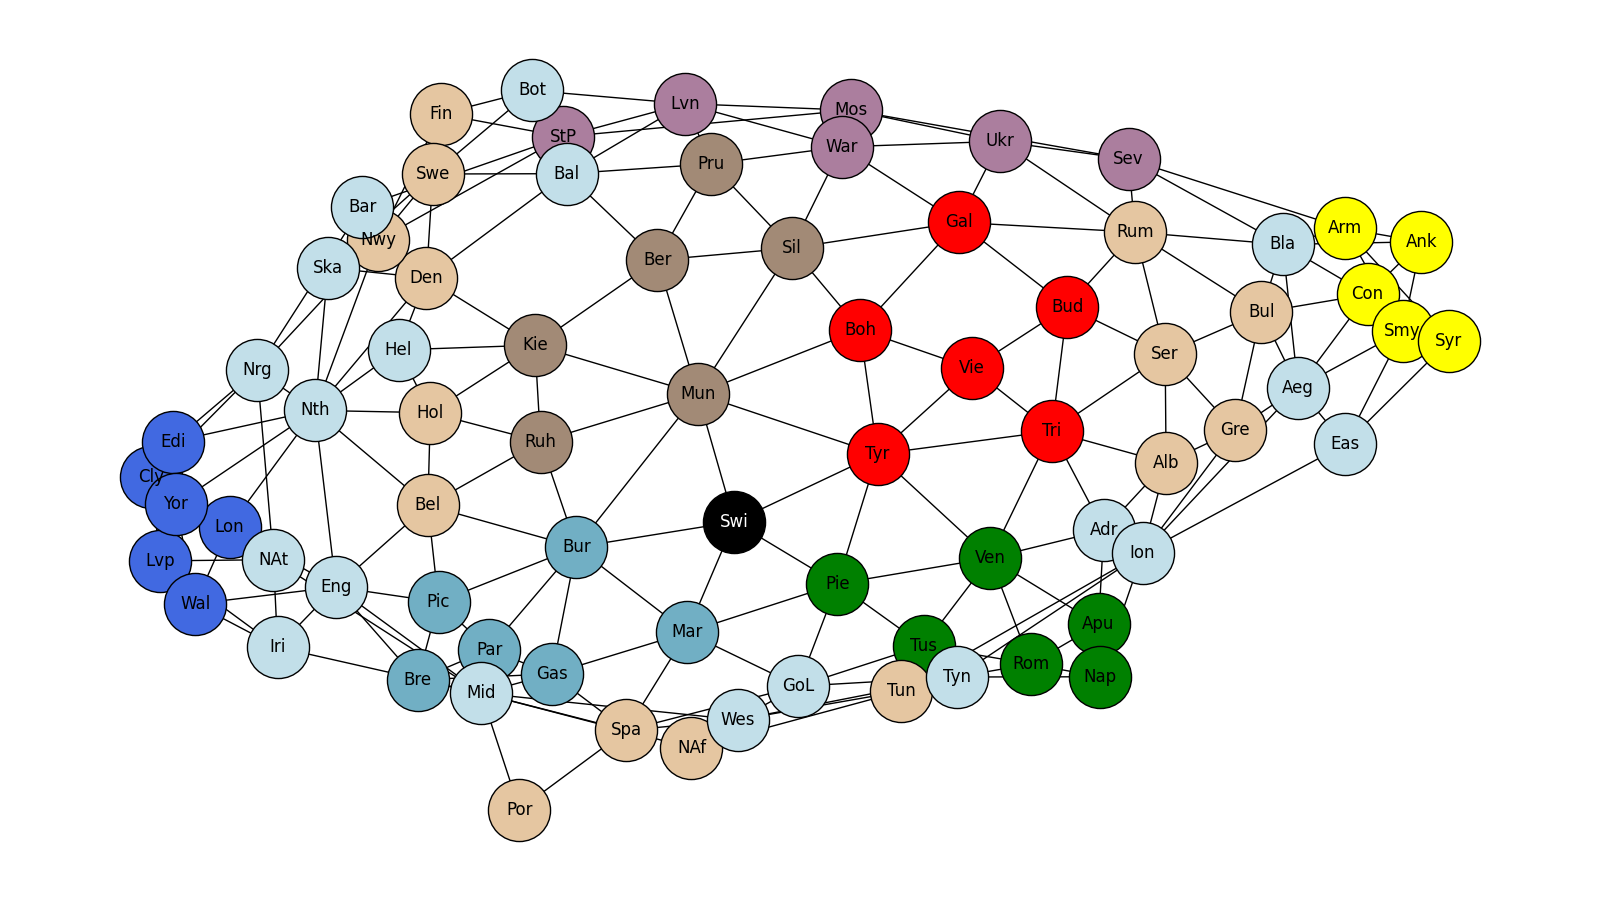
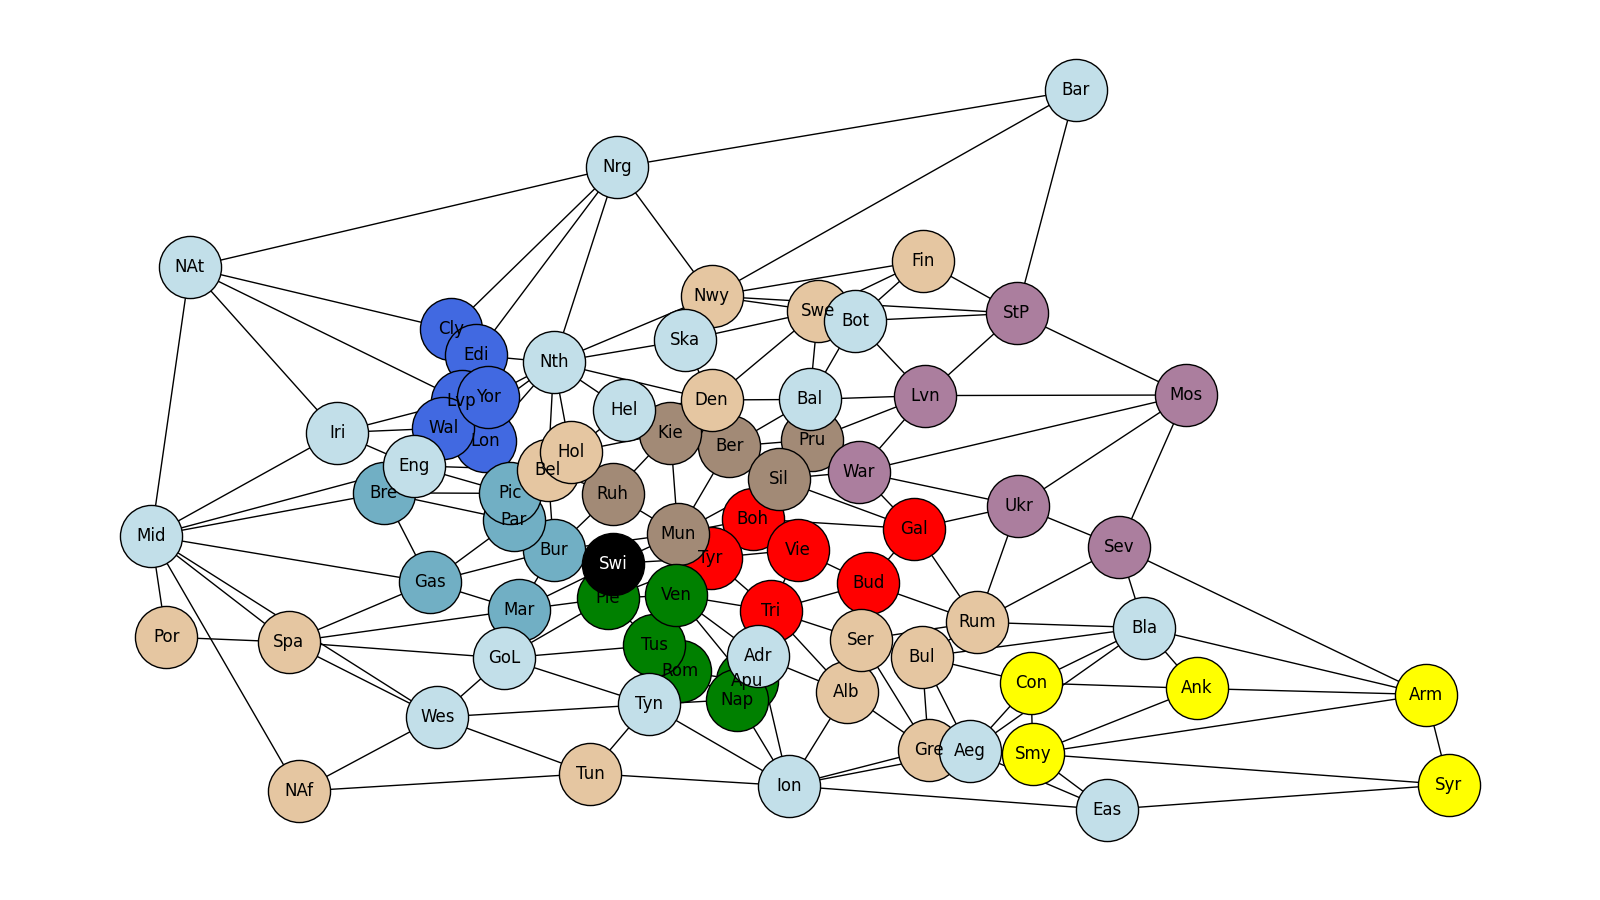
more geographically accurate, if uglier node map

diff --git a/board_graph.py b/board_graph.py
@@ -1,8 +1,40 @@
 #!/usr/bin/env python
+import re
+import string
 
+import geopandas as gpd
 import matplotlib.pyplot as plt
 import networkx as nx
+import matplotlib.patches as patches
 import numpy as np
+
+from matplotlib.path import Path
+from PIL import Image
+from shapely.geometry import GeometryCollection, LineString, Polygon
+from xml.dom import minidom
+
+def svg_parse(path):
+      """
+      Stolen from https://gis.stackexchange.com/a/301682
+      """
+      commands = { 'M' : (Path.MOVETO,),   'L' : (Path.LINETO,),
+                   'Q' : (Path.CURVE3,)*2, 'C' : (Path.CURVE4,)*3,
+                   'Z' : (Path.CLOSEPOLY,) }
+      path_re = re.compile(r'([MLHVCSQTAZ])([^MLHVCSQTAZ]+)', re.IGNORECASE)
+      float_re = re.compile(r'(?:[\s,]*)([+-]?\d+(?:\.\d+)?)')
+      vertices = []
+      codes = []
+      last = (0,0)
+      for cmd, values in path_re.findall(path):
+          points = [float(v) for v in float_re.findall(values)]
+          points = np.array(points).reshape((len(points)//2,2))
+          if cmd in string.ascii_lowercase:
+              points += last
+          cmd = cmd.capitalize()
+          last = points[-1]
+          codes.extend( commands[cmd] )
+          vertices.extend( points.tolist() )
+      return codes, vertices
 
 province_types = ["inland", "water", "coastal"]
 provinces = {
@@ -675,6 +707,84 @@ province_borders = [
     ("Swi", "Tyr"),
     ("Swi", "Pie"),
 ]
+province_positions = {
+    'Boh': (566.3279569892474, 595.459595959596),
+    'Bud': (662.7795698924732, 679.8751803751804),
+    'Gal': (700.5215053763442, 608.446608946609),
+    'Tri': (581.704301075269, 715.2287157287158),
+    'Tyr': (531.3817204301076, 646.6861471861472),
+    'Vie': (604.0698924731183, 635.8636363636364),
+    'Cly': (314.7150537634409, 347.9848484848485),
+    'Edi': (335.6827956989248, 381.8953823953824),
+    'Lvp': (323.80107526881727, 441.0584415584416),
+    'Lon': (343.3709677419356, 494.4494949494949),
+    'Wal': (308.42473118279577, 477.1334776334776),
+    'Yor': (346.16666666666674, 436.0079365079365),
+    'Bre': (258.80107526881727, 561.5490620490621),
+    'Bur': (400.6827956989248, 636.5851370851371),
+    'Gas': (297.241935483871, 678.4321789321789),
+    'Mar': (371.32795698924735, 714.507215007215),
+    'Par': (367.13440860215064, 597.6240981240982),
+    'Pic': (364.3387096774194, 562.2705627705628),
+    'Ber': (546.7580645161291, 500.94300144300144),
+    'Kie': (497.83333333333337, 482.90548340548344),
+    'Mun': (504.1236559139786, 614.9401154401155),
+    'Pru': (615.951612903226, 492.2849927849928),
+    'Ruh': (449.60752688172056, 562.9920634920635),
+    'Sil': (587.9946236559141, 543.5115440115441),
+    'Apu': (561.4354838709678, 807.5808080808081),
+    'Nap': (553.0483870967743, 831.3903318903319),
+    'Pie': (445.41397849462373, 699.3556998556999),
+    'Rom': (505.5215053763442, 793.8722943722944),
+    'Tus': (484.5537634408603, 760.6832611832613),
+    'Ven': (502.72580645161304, 695.0266955266956),
+    'Lvn': (710.3064516129033, 434.56493506493507),
+    'Mos': (927.6720430107529, 433.8434343434343),
+    'Sev': (871.7580645161291, 632.2561327561327),
+    'StP': (786.4892473118281, 327.0613275613275),
+    'Ukr': (787.8870967741937, 578.1435786435786),
+    'War': (655.0913978494625, 534.1320346320347),
+    'Ank': (936.7580645161291, 816.9603174603175),
+    'Arm': (1127.5645161290322, 824.8968253968254),
+    'Con': (798.3709677419356, 809.7453102453103),
+    'Smy': (799.7688172043012, 902.0974025974026),
+    'Syr': (1146.4354838709678, 942.501443001443),
+    'Alb': (644.6075268817206, 822.0108225108225),
+    'Bel': (395.79032258064524, 531.9675324675325),
+    'Bul': (707.5107526881721, 775.8347763347763),
+    'Den': (532.0806451612904, 440.3369408369408),
+    'Fin': (708.209677419355, 258.51875901875906),
+    'Gre': (713.1021505376345, 897.0468975468975),
+    'Hol': (414.6612903225807, 508.8795093795094),
+    'Nwy': (532.0806451612904, 304.6948051948052),
+    'NAf': (188.2096774193549, 951.1594516594516),
+    'Por': (77.77956989247318, 749.8607503607504),
+    'Rum': (753.6397849462367, 730.3802308802309),
+    'Ser': (656.4892473118281, 753.468253968254),
+    'Spa': (179.8225806451613, 756.3542568542568),
+    'Swe': (620.8440860215055, 324.17532467532465),
+    'Tun': (430.7365591397851, 928.0714285714286),
+    'Adr': (571.220430107527, 774.391774891775),
+    'Aeg': (747.3494623655915, 898.4898989898991),
+    'Bal': (613.8548387096776, 439.61544011544015),
+    'Bar': (835.4139784946238, 36.296536796536884),
+    'Bla': (892.725806451613, 737.5952380952381),
+    'Eas': (861.97311827957, 974.9689754689755),
+    'Eng': (283.9623655913979, 526.1955266955267),
+    'Bot': (651.5967741935485, 337.1623376623377),
+    'GoL': (359.44623655913983, 777.2777777777778),
+    'Hel': (459.39247311827967, 453.32395382395384),
+    'Ion': (596.3817204301076, 943.9444444444445),
+    'Iri': (220.36021505376348, 482.90548340548344),
+    'Mid': (65.19892473118281, 617.8261183261184),
+    'NAt': (97.34946236559145, 267.17676767676767),
+    'Nth': (400.6827956989248, 391.2748917748918),
+    'Nrg': (453.10215053763454, 136.58513708513703),
+    'Ska': (509.715053763441, 362.41486291486297),
+    'Tyn': (479.6612903225807, 837.8838383838383),
+    'Wes': (303.5322580645162, 854.478354978355),
+    'Swi': (450.3064516129033, 653.9011544011544)
+}
 country_colours ={
     "Austria": "red", #tuple(c/255 for c in (200,143,134)),
     "England": "royalblue", #tuple(c/255 for c in (242,196,227)),
@@ -688,13 +798,57 @@ country_colours ={
     "none": tuple(c/255 for c in (0,0,0)),#"dimgrey"
 
 }
+# game_map = minidom.parse("standard.svg")
+
+# province_svg_paths = [
+#     path.getAttribute('d') for path in game_map.getElementsByTagName('path')
+# ]
+# path_ids = [
+#     path.getAttribute('id') for path in game_map.getElementsByTagName('path')
+# ]
+# game_map.unlink()
+# polys = []
+# for i, province_svg_path in enumerate(province_svg_paths):
+#     codes, verts = svg_parse(province_svg_path)
+#     mpl_path = Path(verts, codes)
+#     poly = mpl_path.to_polygons()
+#     if len(poly) == 0:
+#         print(f"{path_ids[i]} is a line")
+#         polys.append(LineString(mpl_path.vertices))
+#     else:
+#         polys.append(Polygon(poly[0]))
+# multi_poly = GeometryCollection(polys)
+
+img = Image.open("map.png")
+game_map = np.array(img)
+game_map[np.where(game_map <= 1)] = 0
+game_map[np.logical_and((game_map > 1), (game_map < 59))] = 1
+game_map[np.where(game_map >= 59)] = 2
+
+fig = plt.figure(1, frameon=False, figsize=(1300/100, 1000/100), dpi=100)
+ax = fig.add_axes([0, 0, 1, 1])
+ax.axis('off')
+# plt.figure(figsize=(1300/100, 1000/100), dpi=100, frameon=False)
+ax.imshow(game_map, cmap="magma", aspect="auto")
+# plt.gca().set_axis_off()
+# plt.subplots_adjust(top = 1, bottom = 0, right = 1, left = 0, 
+#             hspace = 0, wspace = 0)
+# plt.axis("off")
+# plt.margins(0,0)
+# plt.gca().xaxis.set_major_locator(plt.NullLocator())
+# plt.gca().yaxis.set_major_locator(plt.NullLocator())
+# plt.tight_layout()
+fig.savefig("map_recolour.png", transparent=True, bbox_inches = 'tight', pad_inches = 0, dpi=100)
 G = nx.Graph()
 
 G.add_nodes_from([(key, provinces[key]) for key in provinces])
 G.add_edges_from(province_borders)
 pos = nx.spring_layout(G, seed=6942069)
+# pos = {province: (pos_coord[0], -pos_coord[1]) for province, pos_coord in province_positions.items()}
+for province, pos_coord in province_positions.items():
+    pos[province] = (pos_coord[0], -pos_coord[1])
 # pos['Mun'] = np.array([0,0])
-fig, ax =plt.subplots(figsize=(16, 9))
+fig, ax = plt.subplots(figsize=(16, 9))
 for country in country_colours:
     nodelist = []
     for province in provinces:
@@ -706,7 +860,7 @@ for country in country_colours:
                            node_size=2000,
                            edgecolors="black",
                            ax=ax)
- 
+
 nx.draw_networkx_edges(G, pos, ax=ax)
 # labels_dict= {province: provinces[province]["long_name"] for province in provinces}
 nx.draw_networkx_labels(G, pos, ax=ax)
@@ -714,4 +868,28 @@ nx.draw_networkx_labels(G, pos, labels={"Swi": "Swi"}, font_color="w", ax=ax)
 plt.tight_layout()
 ax.axis("off")
 plt.savefig("Diplomacy_map_graph.png")
+
+# p = gpd.GeoSeries(polys)
+# p.plot(facecolor="w", edgecolor='k')
+# plt.close("all")
 plt.show()
+# fig = plt.figure(figsize=(12,9))
+# ax = fig.add_subplot(111)
+# ax.imshow(game_map, origin="upper", cmap="magma", aspect="auto")
+
+# coords = []
+
+# def onclick(event):
+#     global ix, iy
+#     ix, iy = event.xdata, event.ydata
+#     print (f'x = {ix}, y = {iy}')
+
+#     global coords
+#     coords.append((ix, iy))
+    
+#     if len(coords) == len(provinces):
+#         fig.canvas.mpl_disconnect(cid)
+
+#     return coords
+# cid = fig.canvas.mpl_connect('button_press_event', onclick)
+# plt.show()
